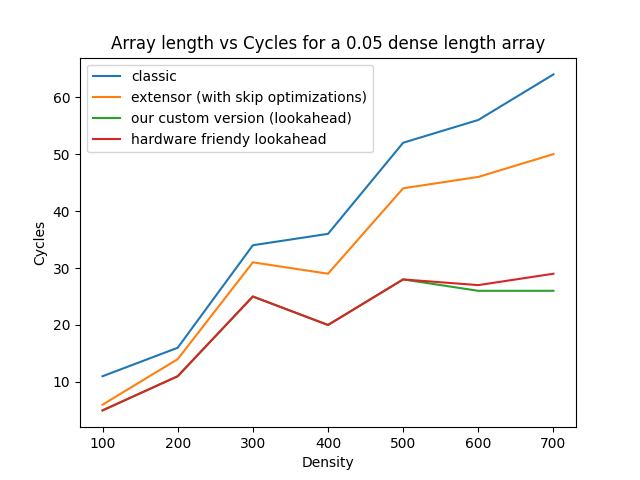
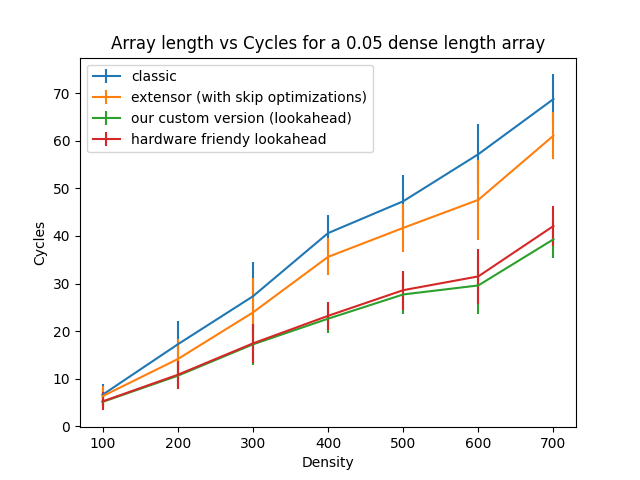
Added error bars

diff --git a/plot.py b/plot.py
@@ -1,21 +1,34 @@
 import matplotlib.pyplot as plt
 from test import *
+import math
+import numpy
+class Trial:
+    def __init__(self):
+        self.vals = []
+    def add(self, val):
+        self.vals.append(val)
+    def mean(self):
+        return sum(self.vals) / len(self.vals)
+    def std(self):
+        return numpy.std(self.vals)
 
-
+trials = 10
 # Plot 1. N = T. 2 streams of the same length, but increasing density.
 densities = [0.01, 0.05, 0.1, 0.2, 0.3, 0.4, 0.5]
-results=[[], [], [], []]
-l = 1000
+results=[[],[],[],[]]
 for d in densities:
-    temp = test_matmul(d, d, 1, l, 1, 10, 10, 10)
-    print(temp)
-    assert(len(temp)   == 4)
     for i in range(4):
-        results[i].append(temp[i][1])
-
-print(results)
+        results[i].append(Trial())
+l = 1000
+for trial in range(trials):
+    for idx, d in enumerate(densities):
+        temp = test_matmul(d, d, 1, l, 1, 10, 10, 10)
+        print(temp)
+        assert(len(temp)   == 4)
+        for i in range(4):
+            results[i][idx].add(temp[i][1])
 for i in range(4):
-    plt.plot(densities, results[i], label=collider_names[i])
+    plt.errorbar(densities, list(map(lambda x : x.mean(), results[i])), list(map(lambda x: x.std(), results[i])), label=collider_names[i])
 plt.xlabel('Density')
 plt.ylabel('Cycles')
 plt.title('Density vs Cycles for a 1000 length array')
@@ -32,15 +45,18 @@ lengths = [100, 200, 300, 400, 500, 600, 700]
 results=[[], [], [], []]
 density = 0.05
 for l in lengths:
-    temp = test_matmul(density, density, 1, l, 1, 10, 10, 10)
-    print(temp)
-    assert(len(temp)  == 4)
     for i in range(4):
-        results[i].append(temp[i][1])
+        results[i].append(Trial())
+for trial in range(trials):
+    for idx, l in enumerate(lengths):
+        temp = test_matmul(density, density, 1, l, 1, 10, 10, 10)
+        print(temp)
+        assert(len(temp)  == 4)
+        for i in range(4):
+            results[i][idx].add(temp[i][1])
 
-print(results)
 for i in range(4):
-    plt.plot(lengths, results[i], label=collider_names[i])
+    plt.errorbar(lengths, list(map(lambda x : x.mean(), results[i])), list(map(lambda x: x.std(), results[i])), label=collider_names[i])
 plt.xlabel('Density')
 plt.ylabel('Cycles')
 plt.title('Array length vs Cycles for a 0.05 dense length array')
@@ -55,15 +71,18 @@ results=[[], [], [], []]
 density = 0.05
 length = 1000
 for t in Ts:
-    temp = test_matmul(density, density, 1, l, 1, t, t, t)
-    print(temp)
-    assert(len(temp)  == 4)
     for i in range(4):
-        results[i].append(temp[i][1])
+        results[i].append(Trial())
+for trial in range(trials):
+    for idx, t in enumerate(Ts):
+        temp = test_matmul(density, density, 1, l, 1, t, t, t)
+        print(temp)
+        assert(len(temp)  == 4)
+        for i in range(4):
+            results[i][idx].add(temp[i][1])
 
-print(results)
 for i in range(4):
-    plt.plot(Ts, results[i], label=collider_names[i])
+    plt.errorbar(Ts, list(map(lambda x : x.mean(), results[i])), list(map(lambda x: x.std(), results[i])), label=collider_names[i])
 plt.xlabel('T/N')
 plt.ylabel('Cycles')
 plt.title('T/N vs Cycles for a 0.05 dense 1000 length array')
@@ -73,16 +92,49 @@ plt.savefig('plt3.png')
 plt.clf()
 
 # Plot skips for ideal and hardware version
-results = test_skips(0.05, 0.05, 1, 1000, 1, 10, 10, 10)
+# results_hist = []
+# for trial in range(trials):
+#     results_hist.append(test_skips(0.05, 0.05, 1, 1000, 1, 10, 10, 10))
+
+# results_lookahead = []
+# results_friendly = []
+# for result in results_hist:
+#     results_lookahead.append(result[0])
+#     results_friendly.append(result[1])
+
+# hists = []
+# for result in results_lookahead:
+#     hists.append(numpy.histogram(result[1], bins=range(10))[0])
+# hists=numpy.vstack(hists)
+# breakpoint()
+# stds = numpy.std(hists, axis=1)
+# means = numpy.mean(hists, axis=1)
+# plt.bar(range(10), means, label=collider_names[result[0]], alpha=0.5, yerr=stds)
+
+# hists = []
+# for result in results_friendly:
+#     hists.append(numpy.histogram(result[1], bins=range(10))[0])
+# hists=numpy.vstack(hists)
+# stds = numpy.std(hists, axis=1)
+# means = numpy.mean(hists, axis=1)
+# plt.bar(range(10), means, label=collider_names[result[0]], alpha=0.5, yerr=stds)
+# plt.xlabel('Skips')
+# plt.ylabel('Frequency')
+# plt.title('Skips for 0.05 dense 1000 length array')
+# plt.legend()
+
+# plt.savefig("plt4.png")
+# plt.clf()
 
 # Plot a histogram of the results
+results = test_skips(0.05, 0.05, 1, 1000, 1, 10, 10, 10)
 for result in results:
     plt.hist(result[1], bins=8, label=collider_names[result[0]], alpha=0.5)
 plt.xlabel('Skips')
 plt.ylabel('Frequency')
 plt.title('Skips for 0.05 dense 1000 length array')
 plt.legend()
-plt.savefig('plt4.png')
+plt.savefig('plt5.png')
 
 
 
